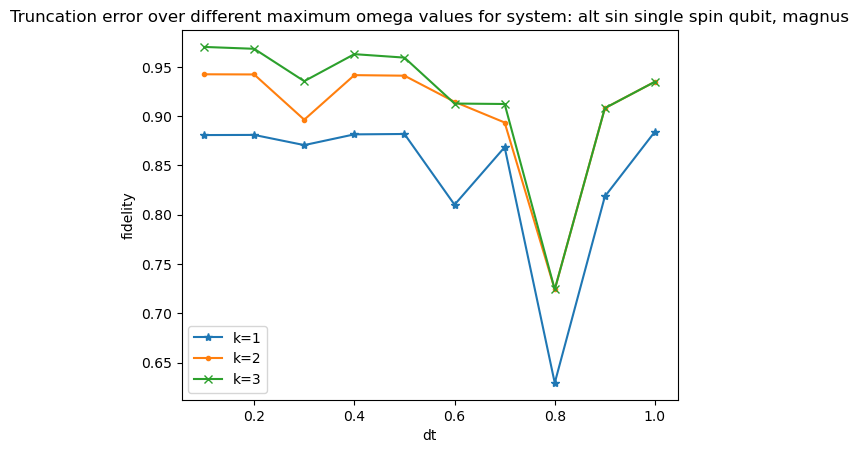
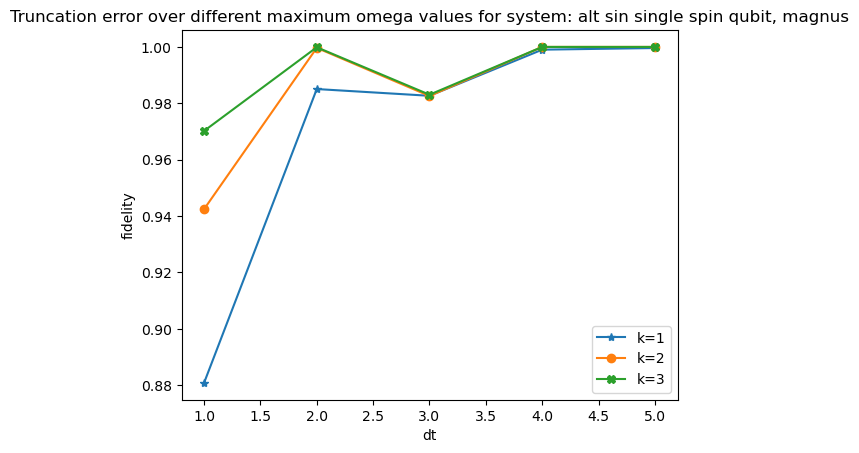
segmentation experiments results

diff --git a/experiments.py b/experiments.py
@@ -131,6 +131,33 @@ experiments = [
         const_vars={"t_start": 0, "t": 2}
     ),
     Experiment(
+        name="truncation segmentation",
+        systems=[
+            hermitian_functions.ssq_shifted_system,
+            hermitian_functions.alt_sin_ssq_system,
+            hermitian_functions.tsq_shifted_system
+        ],
+        simulators=[
+            Simulator(
+                name="magnus",
+                function=naive_magnus_k,
+                # Pass any arguments specific to the simulator within
+                # the simulator.
+                k=[1, 2, 3]
+            ),
+            Simulator(
+                name="analytic magnus",
+                function=analytic_magnus_k,
+                # Pass any arguments specific to the simulator within
+                # the simulator.
+                k=[1, 2]
+            )
+        ],
+        indep_var="segmented",
+        indep_var_range=[1,2,3,4,5],
+        const_vars={"t_start":0, "t":2}
+    ),
+    Experiment(
         name="convergence",
         systems=[
             hermitian_functions.two_spin_qubit_system
@@ -159,6 +186,32 @@ experiments = [
     )
 ]
 
+def plot_truncation(experiment, ground_truths, indep_var = "dt"):
+    results = experiment.fidelities(ground_truths)
+    indep_var_vals = experiment.indep_var_range
+    for simulator in results:
+        simulator_results = results.get(simulator)
+        for system in simulator_results:
+            system_results = simulator_results.get(system)
+            k_values = len(system_results[0])
+            markers = ['*', 'o', 'X', 's', '>', 'd', 'H', '<', '^', '1', '2', '3', 'p']
+            for max_omega in range(1, k_values + 1):
+                key = "k=" + str(max_omega)
+                fidelities = []
+                for dt_res in system_results:
+                    fidelities.append(dt_res.get(key))
+                plt.plot(indep_var_vals, fidelities, label=key, marker=markers[max_omega-1])
+            plt.legend()
+            plt.xlabel(indep_var)
+            plt.ylabel("fidelity")
+            if indep_var == "dt":
+                plt.title("Truncation error over different maximum omega values for system: " + system + ", " + simulator)
+                plt.savefig("omega truncation error " + system + ", " + simulator + ".png", bbox_inches="tight")
+            else:
+                plt.title("Truncation error over different number of segments: " + system + ", " + simulator)
+                plt.savefig("segmentation truncation error " + system + ", " + simulator + ".png", bbox_inches="tight")
+            plt.show()
+
 
 def plot_convergence(experiment, ground_truths):
     results = experiment.fidelities(ground_truths)
@@ -185,30 +238,6 @@ def plot_convergence(experiment, ground_truths):
     plt.savefig("convergence experiment t=0-2", bbox_inches="tight")
     plt.show()
 
-
-def plot_truncation_omegas(experiment, ground_truths):
-    results = experiment.fidelities(ground_truths)
-    print(results)
-    dts = experiment.indep_var_range
-    for simulator in results:
-        simulator_results = results.get(simulator)
-        for system in simulator_results:
-            system_results = simulator_results.get(system)
-            k_values = len(system_results[0])
-            markers = ['*', '.', 'x']
-            for max_omega in range(1, k_values + 1):
-                key = "k=" + str(max_omega)
-                fidelities = []
-                for dt_res in system_results:
-                    fidelities.append(dt_res.get(key))
-                print(simulator + key + str(fidelities))
-                plt.plot(dts, fidelities, label=key, marker=markers[max_omega-1])
-            plt.legend()
-            plt.xlabel("dt")
-            plt.ylabel("fidelity")
-            plt.title("Truncation error over different maximum omega values for system: " + system + ", " + simulator)
-            plt.savefig("omega truncation error " + system + ", " + simulator + ".png", bbox_inches="tight")
-            plt.show()
 
 
 # ground_truths = {"single spin qubit": {(0,2):[[-0.40680456-0.88888417j, -0.19159047+0.0876828j ],
@@ -251,5 +280,4 @@ ground_truths_shifted = {"single spin qubit": [[-0.3290767 -0.71904284j, -0.5565
                                               -0.55430206-0.67417283j]]}
 
 if __name__ == "__main__":
-    plot_truncation_omegas(experiments[0], ground_truths_shifted)
-# %%
+    plot_truncation(experiments[1], ground_truths_shifted, indep_var="segmented")

diff --git a/magnus_expansion.py b/magnus_expansion.py
@@ -94,7 +94,7 @@ def segmented_handler(
 
 
 def magnus(
-        get_Ht_, t, k=1, integrator=euler_integrator2, integrator_dt=0.01, dt=None,
+        get_Ht_, t, k=1, integrator=euler_integrator2, integrator_dt=0.1, dt=None,
         t_start=0, segmented=False, segment_margin=3,
         verbose: bool = False
 ):
